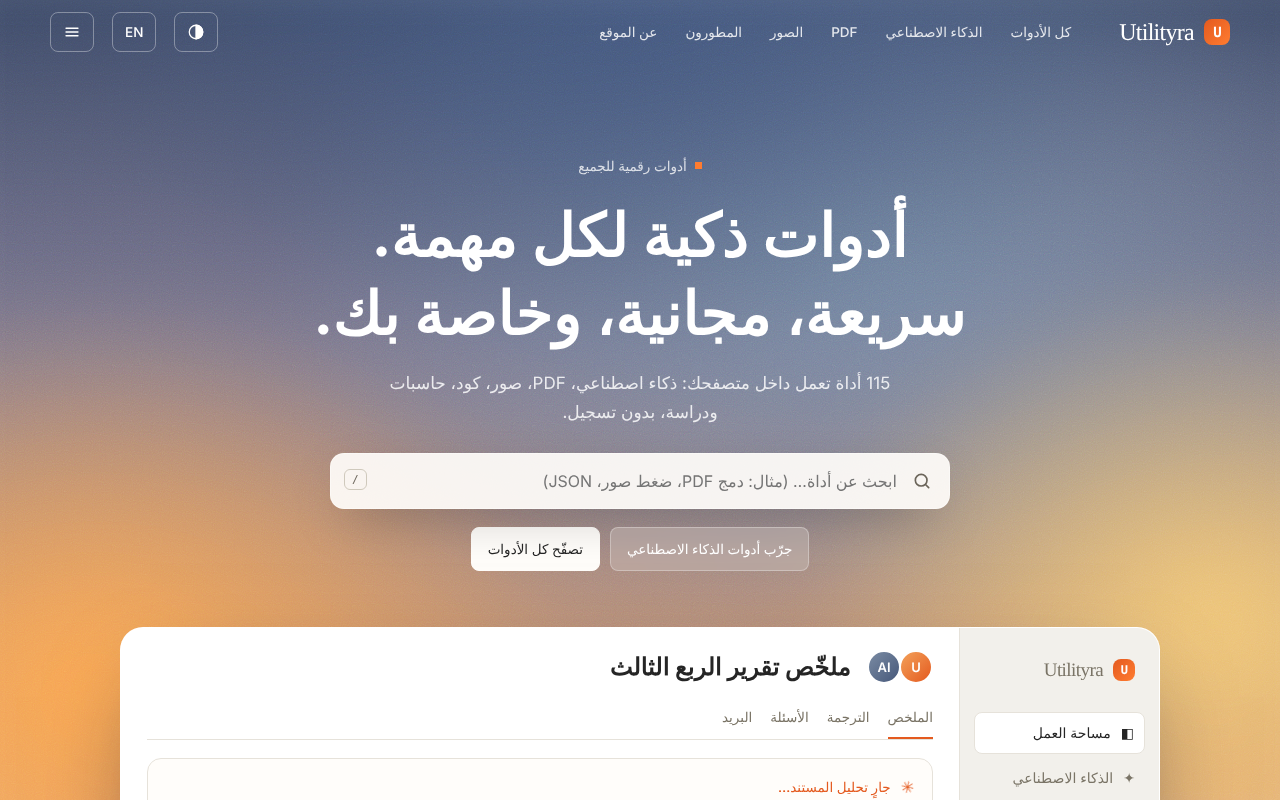
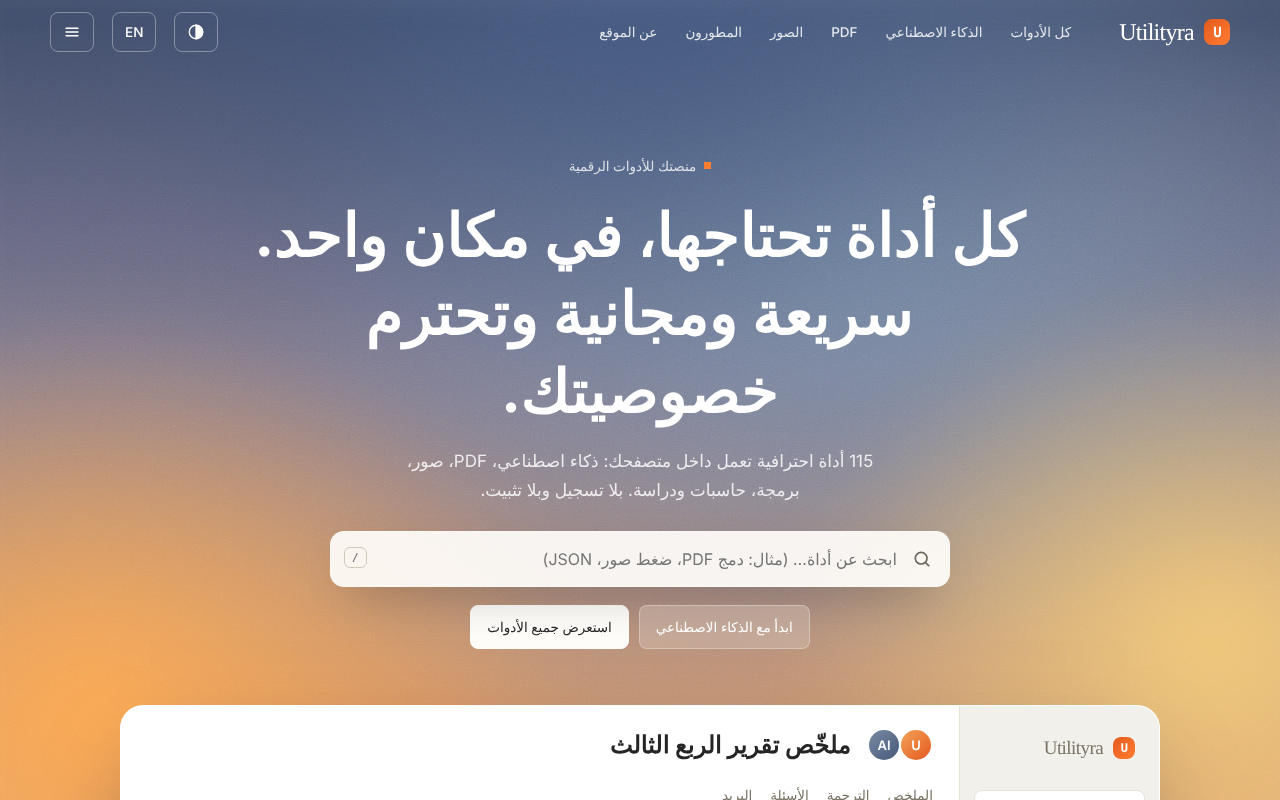
Professional copy rewrite, owner-only provider diagnostics, Gemini key alias (#16)
Claude-Session: https://claude.ai/code/session_01XFyGnZQLbsRMmR5Q2gq1Am

diff --git a/worker/src/index.js b/worker/src/index.js
@@ -148,7 +148,7 @@ async function viaOpenAI(messages, env, gen = DEFAULT_GEN) {
   if (!env.OPENAI_API_KEY) throw Object.assign(new Error("PROVIDER_NOT_CONFIGURED"), { status: 503 });
   const res = await fetch(gw(env, "openai", "https://api.openai.com/v1") + "/chat/completions", { method: "POST", headers: { authorization: `Bearer ${env.OPENAI_API_KEY}`, "content-type": "application/json", ...gwAuth(env) }, body: JSON.stringify({ model: env.OPENAI_MODEL || (gen.strong ? "gpt-4.1" : "gpt-4.1-mini"), messages, max_tokens: gen.max_tokens, temperature: gen.temperature }) });
   const data = await res.json().catch(() => ({}));
-  if (!res.ok) throw Object.assign(new Error("UPSTREAM_ERROR"), { status: res.status === 429 ? 429 : 502 });
+  if (!res.ok) throw Object.assign(new Error("UPSTREAM_ERROR"), { status: res.status === 429 ? 429 : 502, detail: `openai ${res.status} ${data?.error?.code || data?.error?.type || ""}`.trim() });
   const text = data?.choices?.[0]?.message?.content?.trim();
   if (!text) throw Object.assign(new Error("EMPTY_PROVIDER_RESPONSE"), { status: 502 });
   return text;
@@ -171,34 +171,35 @@ async function viaAnthropic(messages, env, gen = DEFAULT_GEN) {
       if (text) return text;
       last = Object.assign(new Error("EMPTY_PROVIDER_RESPONSE"), { status: 502 }); continue;
     }
-    last = Object.assign(new Error("UPSTREAM_ERROR"), { status: res.status === 429 ? 429 : 502 });
+    last = Object.assign(new Error("UPSTREAM_ERROR"), { status: res.status === 429 ? 429 : 502, detail: `anthropic ${model} ${res.status} ${data?.error?.type || ""}`.trim() });
     if (res.status === 429 || res.status === 401 || res.status === 403) break; // quota / key problems: stepping down will not help
     // 400/404 (model not available for this account) and 5xx: try the next model in the chain
   }
   throw last || Object.assign(new Error("UPSTREAM_ERROR"), { status: 502 });
 }
 async function viaGemini(messages, env, gen = DEFAULT_GEN) {
-  if (!env.GEMINI_API_KEY) throw Object.assign(new Error("PROVIDER_NOT_CONFIGURED"), { status: 503 });
+  if (!geminiKey(env)) throw Object.assign(new Error("PROVIDER_NOT_CONFIGURED"), { status: 503 });
   const system = messages.find((m) => m.role === "system")?.content || "";
   const contents = messages.filter((m) => m.role !== "system").map((m) => ({ role: m.role === "assistant" ? "model" : "user", parts: [{ text: m.content }] }));
   const model = env.GEMINI_MODEL || (gen.strong ? "gemini-2.5-pro" : "gemini-2.5-flash");
-  const res = await fetch(`${gw(env, "google-ai-studio", "https://generativelanguage.googleapis.com")}/v1beta/models/${encodeURIComponent(model)}:generateContent`, { method: "POST", headers: { "x-goog-api-key": env.GEMINI_API_KEY, "content-type": "application/json", ...gwAuth(env) }, body: JSON.stringify({ systemInstruction: { parts: [{ text: system }] }, contents, generationConfig: { maxOutputTokens: gen.max_tokens, temperature: gen.temperature } }) });
+  const res = await fetch(`${gw(env, "google-ai-studio", "https://generativelanguage.googleapis.com")}/v1beta/models/${encodeURIComponent(model)}:generateContent`, { method: "POST", headers: { "x-goog-api-key": geminiKey(env), "content-type": "application/json", ...gwAuth(env) }, body: JSON.stringify({ systemInstruction: { parts: [{ text: system }] }, contents, generationConfig: { maxOutputTokens: gen.max_tokens, temperature: gen.temperature } }) });
   const data = await res.json().catch(() => ({}));
   if (!res.ok) throw Object.assign(new Error("UPSTREAM_ERROR"), { status: res.status === 429 ? 429 : 502 });
   const text = (data?.candidates?.[0]?.content?.parts || []).map((p) => p.text || "").join("").trim();
   if (!text) throw Object.assign(new Error("EMPTY_PROVIDER_RESPONSE"), { status: 502 });
   return text;
 }
+const geminiKey = (env) => env.GEMINI_API_KEY || env.Gemini_API_Key || env.GOOGLE_API_KEY || "";
 export function providersFor(env) {
-  const all = { anthropic: [!!env.ANTHROPIC_API_KEY, viaAnthropic], "workers-ai": [!!env.AI, viaWorkersAI], openai: [!!env.OPENAI_API_KEY, viaOpenAI], gemini: [!!env.GEMINI_API_KEY, viaGemini] };
+  const all = { anthropic: [!!env.ANTHROPIC_API_KEY, viaAnthropic], "workers-ai": [!!env.AI, viaWorkersAI], openai: [!!env.OPENAI_API_KEY, viaOpenAI], gemini: [!!geminiKey(env), viaGemini] };
   const order = [env.AI_PROVIDER, "anthropic", "workers-ai", "openai", "gemini"].filter((v, i, a) => v && all[v] && a.indexOf(v) === i);
   return order.filter((k) => all[k][0]).map((k) => [k, all[k][1]]);
 }
 
-const sse = (chunks, sources = [], provider = "") => new Response(new ReadableStream({ start(c) { const e = new TextEncoder(); if (provider) c.enqueue(e.encode(`data: ${JSON.stringify({ provider })}\n\n`)); if (sources.length) c.enqueue(e.encode(`data: ${JSON.stringify({ sources })}\n\n`)); for (const t of chunks) c.enqueue(e.encode(`data: ${JSON.stringify({ response: t })}\n\n`)); c.enqueue(e.encode("data: [DONE]\n\n")); c.close(); } }), { headers: { "content-type": "text/event-stream; charset=utf-8", "cache-control": "no-store", "x-content-type-options": "nosniff" } });
-function withSources(st, sources, provider = "") {
+const sse = (chunks, sources = [], provider = "", fails = []) => new Response(new ReadableStream({ start(c) { const e = new TextEncoder(); if (provider) c.enqueue(e.encode(`data: ${JSON.stringify({ provider, ...(fails.length ? { fails } : {}) })}\n\n`)); if (sources.length) c.enqueue(e.encode(`data: ${JSON.stringify({ sources })}\n\n`)); for (const t of chunks) c.enqueue(e.encode(`data: ${JSON.stringify({ response: t })}\n\n`)); c.enqueue(e.encode("data: [DONE]\n\n")); c.close(); } }), { headers: { "content-type": "text/event-stream; charset=utf-8", "cache-control": "no-store", "x-content-type-options": "nosniff" } });
+function withSources(st, sources, provider = "", fails = []) {
   const e = new TextEncoder(); const r = st.getReader(); let sent = false;
-  return new ReadableStream({ async pull(c) { if (!sent) { sent = true; c.enqueue(e.encode(`data: ${JSON.stringify({ provider, ...(sources.length ? { sources } : {}) })}\n\n`)); return; } const { done, value } = await r.read(); if (done) c.close(); else c.enqueue(value); }, cancel() { r.cancel(); } });
+  return new ReadableStream({ async pull(c) { if (!sent) { sent = true; c.enqueue(e.encode(`data: ${JSON.stringify({ provider, ...(fails.length ? { fails } : {}), ...(sources.length ? { sources } : {}) })}\n\n`)); return; } const { done, value } = await r.read(); if (done) c.close(); else c.enqueue(value); }, cancel() { r.cancel(); } });
 }
 async function cacheKey(body) {
   const raw = JSON.stringify([body.tool, body.message, body.options || {}, body.lang || "ar"]);
@@ -229,17 +230,17 @@ async function handleAI(request, env, origin) {
   // Short-lived cache for identical single-shot requests (never for chat, which depends on history).
   const cacheable = body.tool !== "ai-assistant" && typeof caches !== "undefined" && caches.default;
   let ck; if (cacheable) { try { ck = new Request(await cacheKey(body)); const hit = await caches.default.match(ck); if (hit) { const j = await hit.json(); return wantStream ? sse([j.answer], [], j.provider || "") : json({ ...j, cached: true }, 200, origin); } } catch { ck = null; } }
-  let lastErr;
+  let lastErr; const fails = [];
   for (const [name, fn] of providers) {
     try {
       // Native Workers AI streaming (SSE passthrough); other providers answer as a single SSE chunk.
       if (wantStream && name === "workers-ai" && env.AI && typeof env.AI.run === "function") {
-        try { const st = await env.AI.run(env.WORKERS_AI_MODEL || MODELS.primary, { messages, max_tokens: gen.max_tokens, temperature: gen.temperature, stream: true }, env.AI_GATEWAY_ID ? { gateway: { id: env.AI_GATEWAY_ID } } : undefined); if (st && typeof st.getReader === "function") return new Response(withSources(st, srcPub, "workers-ai"), { headers: { "content-type": "text/event-stream; charset=utf-8", "cache-control": "no-store", "x-content-type-options": "nosniff", ...corsHeaders(origin) } }); } catch { /* fall back to non-streaming */ }
+        try { const st = await env.AI.run(env.WORKERS_AI_MODEL || MODELS.primary, { messages, max_tokens: gen.max_tokens, temperature: gen.temperature, stream: true }, env.AI_GATEWAY_ID ? { gateway: { id: env.AI_GATEWAY_ID } } : undefined); if (st && typeof st.getReader === "function") return new Response(withSources(st, srcPub, "workers-ai", fails), { headers: { "content-type": "text/event-stream; charset=utf-8", "cache-control": "no-store", "x-content-type-options": "nosniff", ...corsHeaders(origin) } }); } catch { /* fall back to non-streaming */ }
       }
       const answer = await fn(messages, env, gen);
       if (ck) { try { await caches.default.put(ck, new Response(JSON.stringify({ answer, provider: name }), { headers: { "content-type": "application/json", "cache-control": "public, max-age=3600" } })); } catch { /* ignore */ } }
-      return wantStream ? sse([answer], srcPub, name) : json({ answer, provider: name, ...(srcPub.length ? { sources: srcPub } : {}) }, 200, origin);
-    } catch (e) { lastErr = e; if (e.status === 429) break; }
+      return wantStream ? sse([answer], srcPub, name, fails) : json({ answer, provider: name, ...(fails.length ? { fails } : {}), ...(srcPub.length ? { sources: srcPub } : {}) }, 200, origin);
+    } catch (e) { lastErr = e; fails.push(e.detail || `${name} ${e.message}`); if (e.status === 429) break; }
   }
   return json({ error: lastErr?.message === "PROVIDER_NOT_CONFIGURED" ? "PROVIDER_NOT_CONFIGURED" : "UPSTREAM_ERROR" }, lastErr?.status === 429 ? 429 : 502, origin);
 }

diff --git a/src/assets/js/tools/01-ai.js b/src/assets/js/tools/01-ai.js
@@ -47,7 +47,7 @@
       box.addEventListener('input', () => { cnt.textContent = box.value.length + ' / 6000'; });
       const decorate = (el) => { h.$$('pre', el).forEach((pre) => { if (pre.querySelector('.cpy')) return; pre.style.position = 'relative'; const b = document.createElement('button'); b.type = 'button'; b.className = 'mini cpy'; b.textContent = h.t('نسخ', 'Copy'); b.style.cssText = 'position:absolute;top:6px;inset-inline-end:6px'; b.addEventListener('click', () => { h.copy(pre.innerText.replace(new RegExp(b.textContent + '$'), '').trim()); b.textContent = '✓'; setTimeout(() => { b.textContent = h.t('نسخ', 'Copy'); }, 1200); }); pre.appendChild(b); }); };
       const srcHtml = (src) => (src && src.length ? `<div class="srcs"><b>${h.t('المصادر:', 'Sources:')}</b> ${src.map((x, i) => `[${i + 1}] <a href="${h.esc(x.url)}" target="_blank" rel="noopener noreferrer">${h.esc(x.title)}</a>`).join(' · ')}</div>` : '');
-      const provHtml = (p) => { if (!p) return ''; const names = { 'workers-ai': h.t('نموذج مجاني (Workers AI)', 'Free model (Workers AI)'), anthropic: 'Claude', openai: 'OpenAI', gemini: 'Gemini' }; const weak = p === 'workers-ai'; return `<div class="srcs prov">${h.t('أجاب:', 'Answered by:')} <b>${h.esc(names[p] || p)}</b>${weak ? ' — ' + h.t('هذا النموذج أضعف. لإجابات أقوى أضف مفتاح Claude أو OpenAI أو Gemini في إعدادات الـ Worker (راجع docs/DEPLOY_AR.md).', 'This model is weaker. For stronger answers add a Claude, OpenAI or Gemini key to the Worker (see docs/DEPLOY_AR.md).') : ''}</div>`; };
+      const provHtml = (p, fails) => { let owner = false; try { owner = localStorage.getItem('ur-notrack') === '1'; } catch (e) { /* ignore */ } if (!owner || !p) return ''; const names = { 'workers-ai': 'Workers AI', anthropic: 'Claude', openai: 'OpenAI', gemini: 'Gemini' }; const why = fails && fails.length ? ' — ' + h.esc(fails.join(' | ')) : ''; return `<div class="srcs prov">${h.t('(للمالك فقط) أجاب:', '(owner only) Answered by:')} <b>${h.esc(names[p] || p)}</b>${why}</div>`; };
       const add = (who, html) => { const m = document.createElement('div'); m.className = 'msg ' + who; m.innerHTML = '<div class="bubble">' + html + '</div>'; log.appendChild(m); log.scrollTop = log.scrollHeight; return m; };
       const render = () => { log.innerHTML = ''; add('bot', h.L('أهلًا! اسألني عن أي شيء، داخل الموقع أو خارجه. أتذكّر محادثاتنا السابقة دون عرضها هنا، وأستخدم مصادر موثّقة عند الإمكان، وأقول بصراحة عندما لا أعرف.', "Hi! Ask me anything, on this site or beyond. I remember our earlier chats without listing them here, use cited sources when possible, and say so when I don't know.")); hist.forEach((m) => { const e = add(m.role === 'user' ? 'user' : 'bot', m.role === 'user' ? h.esc(m.content).replace(/\n/g, '<br>') : h.md(m.content) + srcHtml(m.sources)); decorate(e); }); };
       render();
@@ -55,10 +55,10 @@
       box.addEventListener('keydown', (e) => { if (e.key === 'Enter' && !e.shiftKey && !e.isComposing) { e.preventDefault(); form.requestSubmit(); } });
       let busy = false;
       async function ask(q) {
-        busy = true; const wait = add('bot', '<span class="dots"><i></i><i></i><i></i></span>'); const bub = wait.querySelector('.bubble'); let src = [], prov = '';
+        busy = true; const wait = add('bot', '<span class="dots"><i></i><i></i><i></i></span>'); const bub = wait.querySelector('.bubble'); let src = [], prov = '', pf = [];
         try {
-          const a = await h.aiStream({ tool: 'ai-assistant', message: q, history: hist.slice(0, -1).slice(-16).map((m) => ({ role: m.role, content: m.content })), memory: [mem.value.trim(), pastText()].filter(Boolean).join('\n\n'), ground: gr.checked, tz: (Intl.DateTimeFormat().resolvedOptions().timeZone || 'UTC') }, (txt) => { bub.innerHTML = h.md(txt); log.scrollTop = log.scrollHeight; }, (s) => { src = s; }, (m) => { prov = m.provider || ''; });
-          bub.innerHTML = h.md(a) + srcHtml(src) + provHtml(prov); decorate(bub); hist.push({ role: 'assistant', content: a, sources: src.length ? src : undefined });
+          const a = await h.aiStream({ tool: 'ai-assistant', message: q, history: hist.slice(0, -1).slice(-16).map((m) => ({ role: m.role, content: m.content })), memory: [mem.value.trim(), pastText()].filter(Boolean).join('\n\n'), ground: gr.checked, tz: (Intl.DateTimeFormat().resolvedOptions().timeZone || 'UTC') }, (txt) => { bub.innerHTML = h.md(txt); log.scrollTop = log.scrollHeight; }, (s) => { src = s; }, (m) => { prov = m.provider || ''; pf = m.fails || []; });
+          bub.innerHTML = h.md(a) + srcHtml(src) + provHtml(prov, pf); decorate(bub); hist.push({ role: 'assistant', content: a, sources: src.length ? src : undefined });
         } catch (err) { bub.innerHTML = '<span class="err">' + h.esc(err.message) + '</span>'; hist.pop(); }
         store.set('ur-chat', hist.slice(-40)); busy = false; log.scrollTop = log.scrollHeight;
       }

diff --git a/src/assets/js/tools/00-core.js b/src/assets/js/tools/00-core.js
@@ -121,14 +121,14 @@
     const ct = r.headers.get('content-type') || '';
     if (!r.ok || ct.includes('application/json')) {
       const j = await r.json().catch(() => ({})); if (!r.ok) throw new Error(aiErrorMessage(r.status, j.error));
-      if (j.sources && onSources) onSources(j.sources); if (j.provider && onMeta) onMeta({ provider: j.provider }); onDelta(j.answer || '', true); return j.answer || '';
+      if (j.sources && onSources) onSources(j.sources); if (j.provider && onMeta) onMeta({ provider: j.provider, fails: j.fails }); onDelta(j.answer || '', true); return j.answer || '';
     }
     const rd = r.body.getReader(), dec = new TextDecoder(); let buf = '', full = '';
     for (;;) {
       const { done, value } = await rd.read(); if (done) break; buf += dec.decode(value, { stream: true });
       let i; while ((i = buf.indexOf('\n\n')) >= 0) {
         const ev = buf.slice(0, i); buf = buf.slice(i + 2);
-        for (const line of ev.split('\n')) { if (!line.startsWith('data:')) continue; const d = line.slice(5).trim(); if (!d || d === '[DONE]') continue; try { const j = JSON.parse(d); if (j.sources && onSources) onSources(j.sources); if (j.provider && onMeta) onMeta({ provider: j.provider }); if (typeof j.response === 'string' && j.response) { full += j.response; onDelta(full, false); } } catch (e) { /* ignore partial */ } }
+        for (const line of ev.split('\n')) { if (!line.startsWith('data:')) continue; const d = line.slice(5).trim(); if (!d || d === '[DONE]') continue; try { const j = JSON.parse(d); if (j.sources && onSources) onSources(j.sources); if (j.provider && onMeta) onMeta({ provider: j.provider, fails: j.fails }); if (typeof j.response === 'string' && j.response) { full += j.response; onDelta(full, false); } } catch (e) { /* ignore partial */ } }
       }
     }
     if (!full) throw new Error(aiErrorMessage(502));

diff --git a/docs/test-logs/e2e-latest.md b/docs/test-logs/e2e-latest.md
@@ -1,6 +1,6 @@
 # E2E test log
 
-Generated: 2026-10-24T19:58:42.602Z
+Generated: 2026-10-24T20:44:35.355Z
 
 **295/295 passed**, 0 failed.
 
